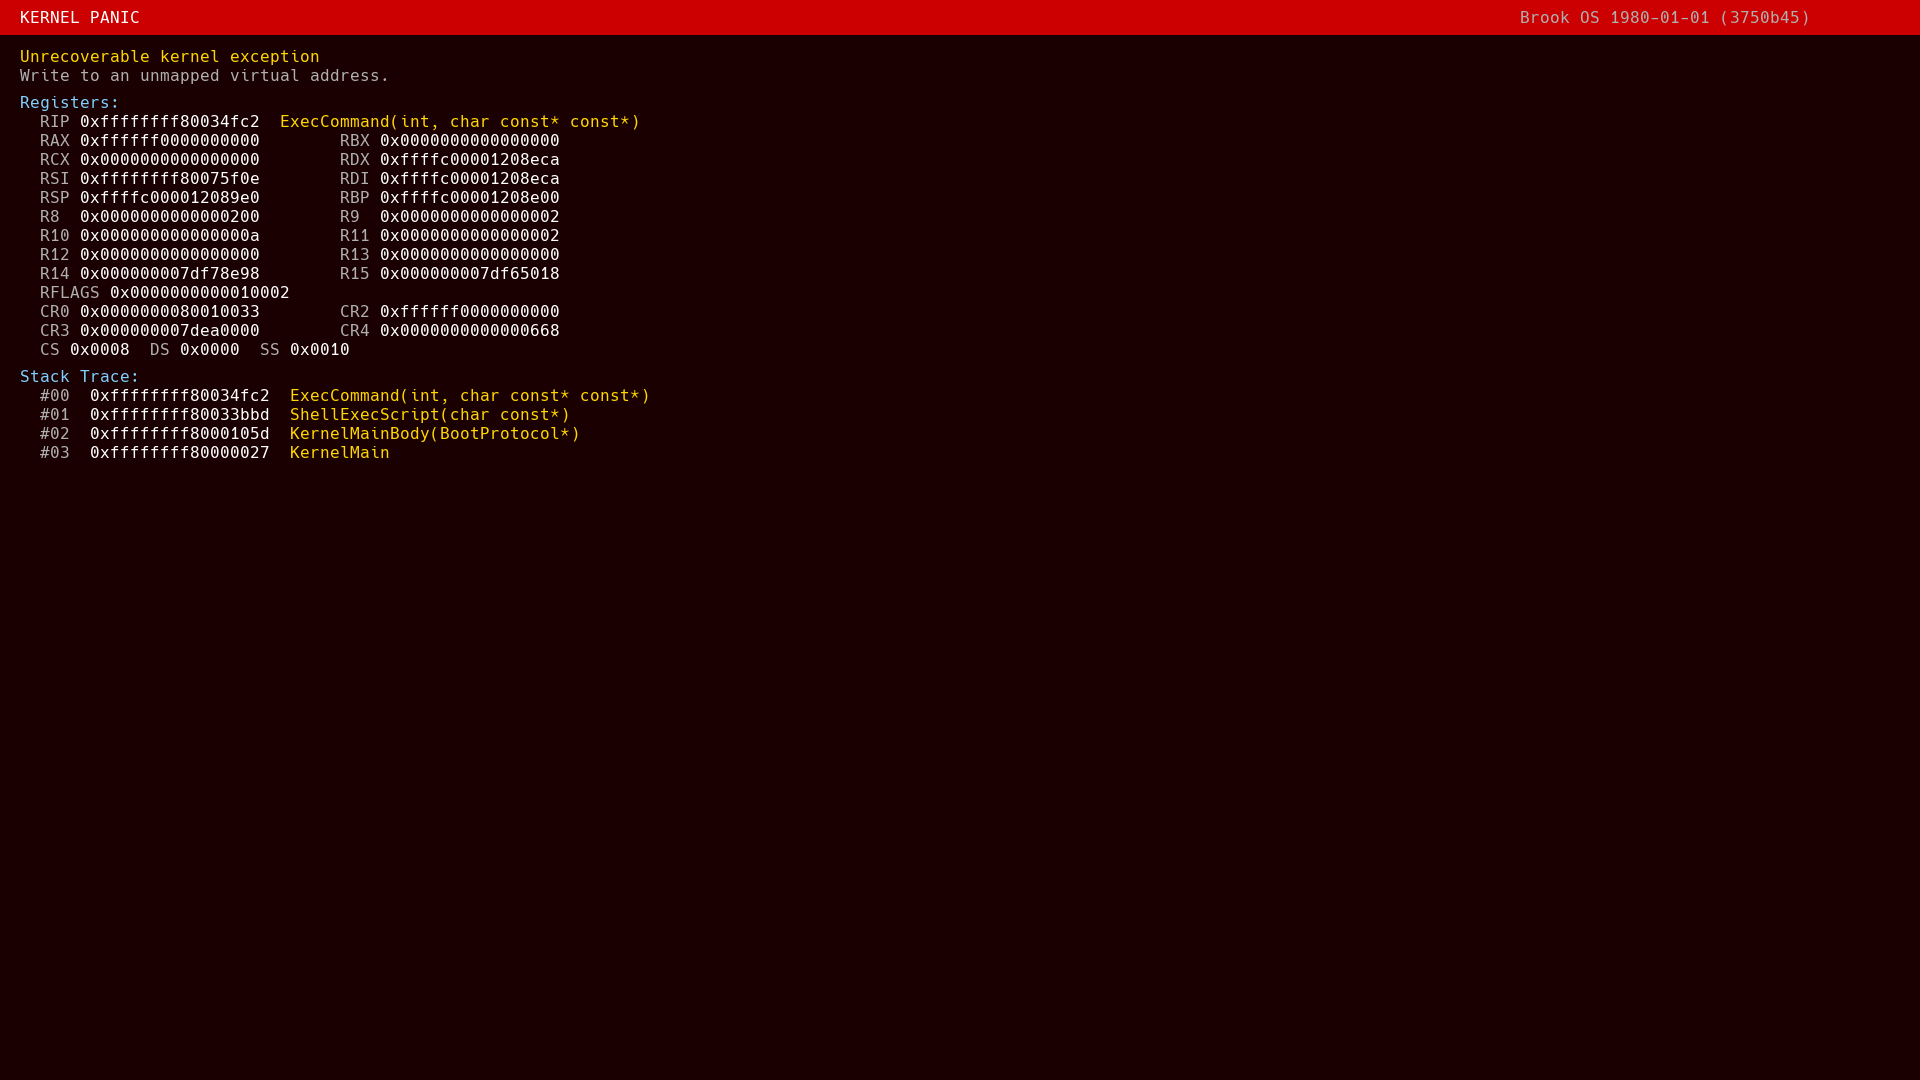
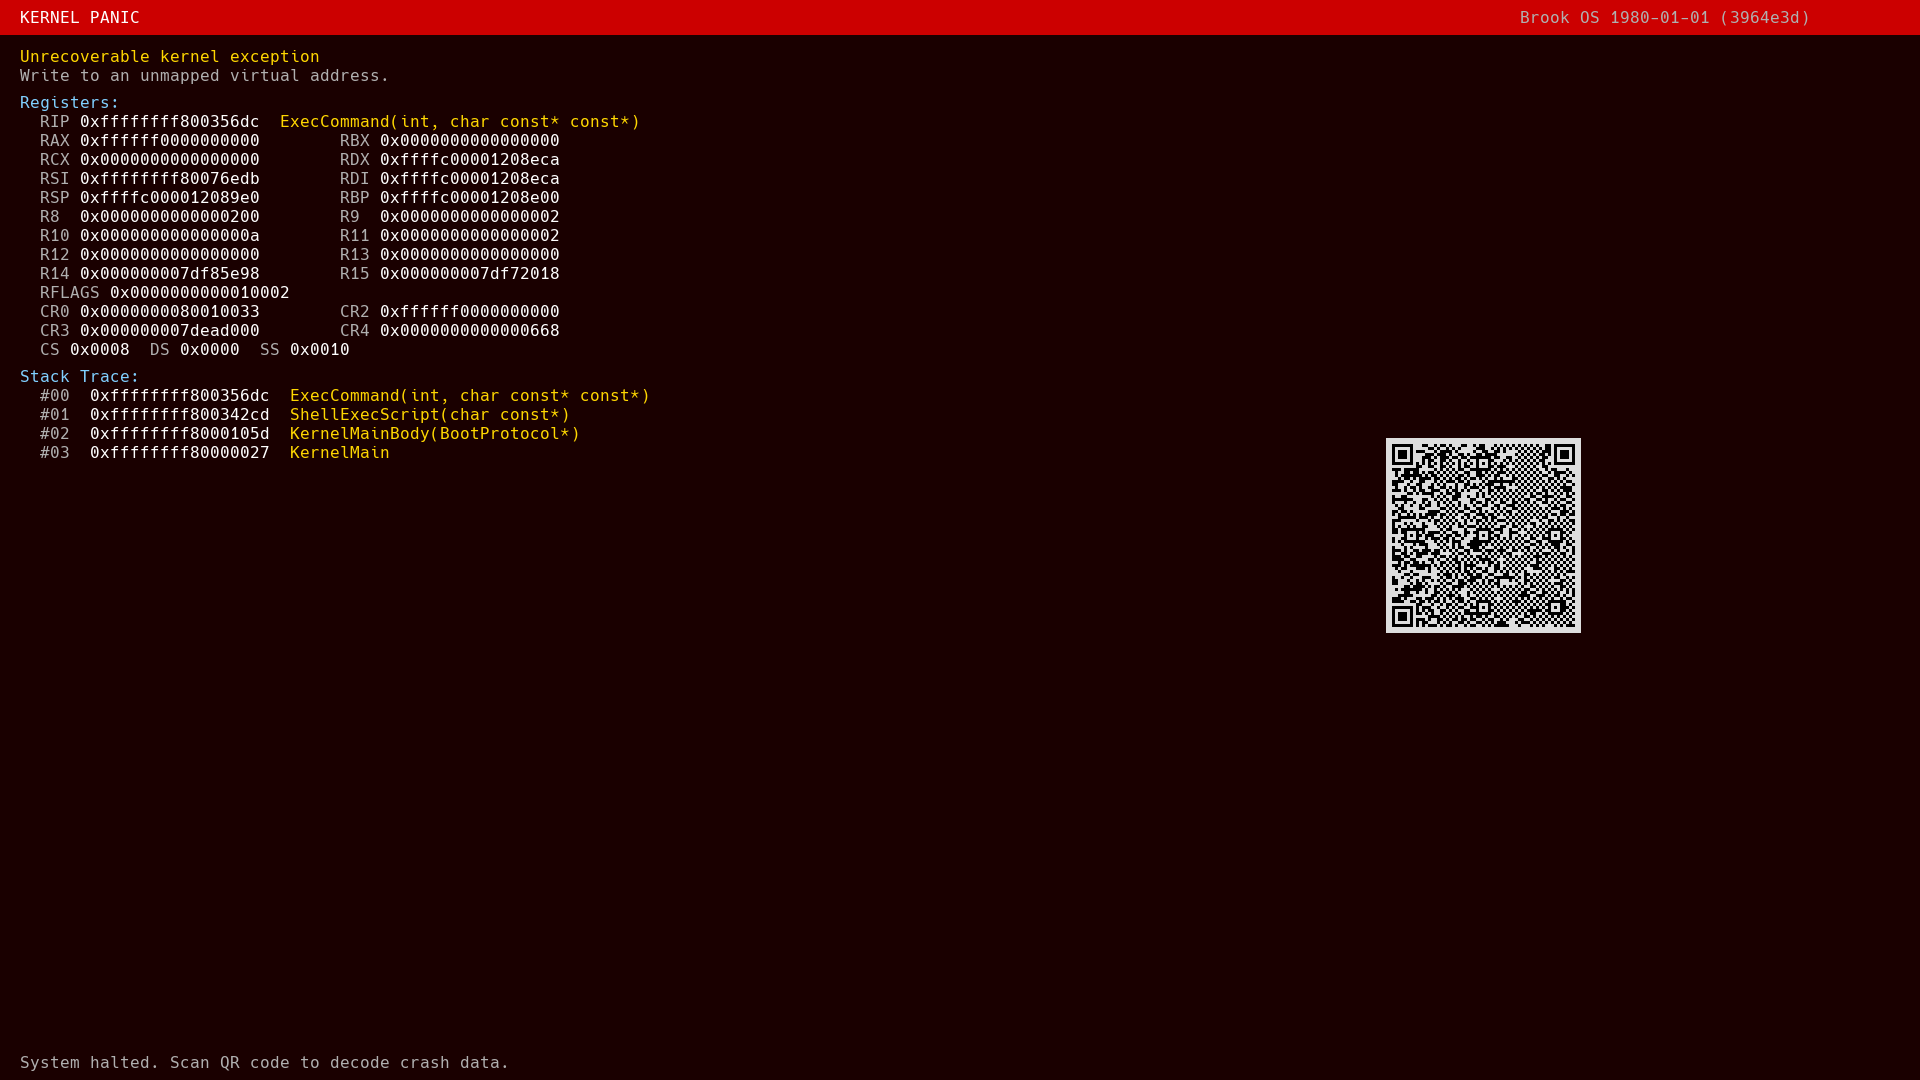
Switch panic QR from Base45 text to binary mode
Replace Base45 text encoding with qrcodegen_encodeBinary for ~30%
smaller QR codes (320 bytes direct vs 480 chars via Base45). The QR
drops from version 12 (65 modules) to version 10 (61 modules).

Update crash_decoder.py to handle binary QR data — pyzbar interprets
byte-mode QR data as Latin-1→UTF-8, so the decoder reverses this with
decode('utf-8').encode('latin-1'). Add --hex flag for raw hex input
while preserving --base45 for legacy compatibility.

diff --git a/tools/crash_decoder.py b/tools/crash_decoder.py
@@ -4,7 +4,7 @@
 Usage:
   crash_decoder.py screenshot.png          # Decode QR from image
   crash_decoder.py --vnc localhost:5943    # Capture from VNC + decode
-  crash_decoder.py --base45 "1A2B..."      # Decode raw Base45 text
+  crash_decoder.py --hex "2d01..."         # Decode raw hex bytes
 
 Automatically finds BROOK.elf for symbolication if not specified.
 """
@@ -258,25 +258,28 @@ class Symbolicator:
 
 
 # ── QR scanning ─────────────────────────────────────────────────────────────
-def scan_qr(image_path: str) -> str:
+def scan_qr(image_path: str) -> bytes:
+    """Scan QR code from image. Returns raw bytes (binary QR mode)."""
     try:
         from pyzbar.pyzbar import decode as pyzbar_decode
         from PIL import Image
     except ImportError:
         raise RuntimeError(
-            "pyzbar/Pillow not installed. Use --base45 to supply raw text instead.\n"
+            "pyzbar/Pillow not installed. Use --hex to supply raw hex instead.\n"
             "  pip install pyzbar Pillow"
         )
     img = Image.open(image_path)
     results = pyzbar_decode(img)
     if not results:
         raise RuntimeError(f"No QR code found in {image_path}")
-    return results[0].data.decode("ascii")
+    # pyzbar interprets binary QR data as Latin-1 codepoints then UTF-8
+    # encodes them. Reverse: decode UTF-8 → Latin-1 chars → encode Latin-1.
+    return results[0].data.decode("utf-8").encode("latin-1")
 
 
 # ── VNC capture ─────────────────────────────────────────────────────────────
-def vnc_capture(host_port: str, save_path: str = "vnc_crash_capture.png") -> str:
-    """Capture a screenshot directly from VNC (no vncdotool needed)."""
+def vnc_capture(host_port: str, save_path: str = "vnc_crash_capture.png") -> bytes:
+    """Capture a screenshot directly from VNC, then scan QR and return raw bytes."""
     try:
         from PIL import Image
     except ImportError:
@@ -583,11 +586,13 @@ def main():
         epilog="""Examples:
   %(prog)s screenshot.png                 # Decode QR from image
   %(prog)s --vnc localhost:5943           # Live VNC capture + decode
-  %(prog)s --base45 "1A2B..."            # Decode raw Base45 text
+  %(prog)s --hex "2d01..."                # Decode raw hex bytes directly
+  %(prog)s --base45 "1A2B..."            # Decode legacy Base45 text
   %(prog)s screenshot.png --raw --json   # JSON output with hex dump
 """)
     ap.add_argument("image", nargs="?", help="Path to screenshot image with QR code")
-    ap.add_argument("--base45", metavar="TEXT", help="Decode raw Base45 text directly")
+    ap.add_argument("--hex", metavar="HEX", help="Decode raw hex bytes directly")
+    ap.add_argument("--base45", metavar="TEXT", help="Decode legacy Base45 text (v0x00)")
     ap.add_argument("--elf", metavar="PATH", help="Path to BROOK.elf for symbolication")
     ap.add_argument("--vnc", metavar="HOST:PORT", help="Capture from VNC server")
     ap.add_argument("--raw", action="store_true", help="Show raw hex dump")
@@ -600,23 +605,26 @@ def main():
             if not attr.startswith("_"):
                 setattr(C, attr, "")
 
-    # Obtain Base45 text
-    b45_text = None
-    if args.base45:
-        b45_text = args.base45
+    # Obtain raw crash data
+    raw = None
+    if args.hex:
+        try:
+            raw = bytes.fromhex(args.hex)
+        except ValueError as e:
+            print(f"{C.RED}[error]{C.RESET} Hex decode failed: {e}", file=sys.stderr)
+            sys.exit(1)
+    elif args.base45:
+        try:
+            raw = base45_decode(args.base45)
+        except (KeyError, ValueError) as e:
+            print(f"{C.RED}[error]{C.RESET} Base45 decode failed: {e}", file=sys.stderr)
+            sys.exit(1)
     elif args.vnc:
-        b45_text = vnc_capture(args.vnc)
+        raw = vnc_capture(args.vnc)
     elif args.image:
-        b45_text = scan_qr(args.image)
+        raw = scan_qr(args.image)
     else:
-        ap.error("Provide an image path, --base45 text, or --vnc host:port")
-
-    # Decode
-    try:
-        raw = base45_decode(b45_text)
-    except (KeyError, ValueError) as e:
-        print(f"{C.RED}[error]{C.RESET} Base45 decode failed: {e}", file=sys.stderr)
-        sys.exit(1)
+        ap.error("Provide an image path, --hex bytes, --base45 text, or --vnc host:port")
 
     # Symbolicator — auto-detect ELF if not specified
     elf_path = args.elf or find_brook_elf()

diff --git a/src/kernel/src/panic_qr.cpp b/src/kernel/src/panic_qr.cpp
@@ -3,7 +3,6 @@
 // Pipeline: PanicCPURegs → binary buffer → Base45 → Nayuki QR → framebuffer
 
 #include "panic_qr.h"
-#include "base45.h"
 #include "serial.h"
 
 extern "C" {
@@ -145,31 +144,24 @@ void PanicRenderQR(uint32_t* fbBase, uint32_t fbWidth, uint32_t fbHeight,
 
     SerialPrintf("PANIC QR: packet %u bytes\n", packetLen);
 
-    // Step 2: Base45 encode (no compression for now — adds ~50% overhead)
-    static char encoded[2048];
-    int encLen = Base45Encode(encoded, sizeof(encoded), packetBuf, packetLen);
-    if (encLen <= 0)
-    {
-        SerialPuts("PANIC QR: Base45 encode failed\n");
-        return;
-    }
-
-    SerialPrintf("PANIC QR: Base45 encoded %d chars\n", encLen);
-
-    // Step 3: Generate QR code using Nayuki library
-    // Static buffers — these are ~4KB each, too large for exception stacks
+    // Step 2: Generate QR code using binary mode (no Base45 overhead)
+    // encodeBinary uses dataAndTemp as both input AND scratch space,
+    // so we copy the packet data into the temp buffer first.
     static uint8_t qrBuf[qrcodegen_BUFFER_LEN_MAX];
     static uint8_t tempBuf[qrcodegen_BUFFER_LEN_MAX];
 
-    SerialPuts("PANIC QR: calling qrcodegen_encodeText...\n");
+    for (uint32_t i = 0; i < packetLen; ++i)
+        tempBuf[i] = packetBuf[i];
 
-    bool ok = qrcodegen_encodeText(encoded, tempBuf, qrBuf,
-                                    qrcodegen_Ecc_LOW,
-                                    qrcodegen_VERSION_MIN,
-                                    qrcodegen_VERSION_MAX,
-                                    qrcodegen_Mask_AUTO, true);
+    SerialPuts("PANIC QR: calling qrcodegen_encodeBinary...\n");
 
-    SerialPrintf("PANIC QR: encodeText returned %d\n", ok ? 1 : 0);
+    bool ok = qrcodegen_encodeBinary(tempBuf, packetLen, qrBuf,
+                                      qrcodegen_Ecc_LOW,
+                                      qrcodegen_VERSION_MIN,
+                                      qrcodegen_VERSION_MAX,
+                                      qrcodegen_Mask_AUTO, true);
+
+    SerialPrintf("PANIC QR: encodeBinary returned %d\n", ok ? 1 : 0);
     if (!ok)
     {
         SerialPuts("PANIC QR: QR generation failed\n");
